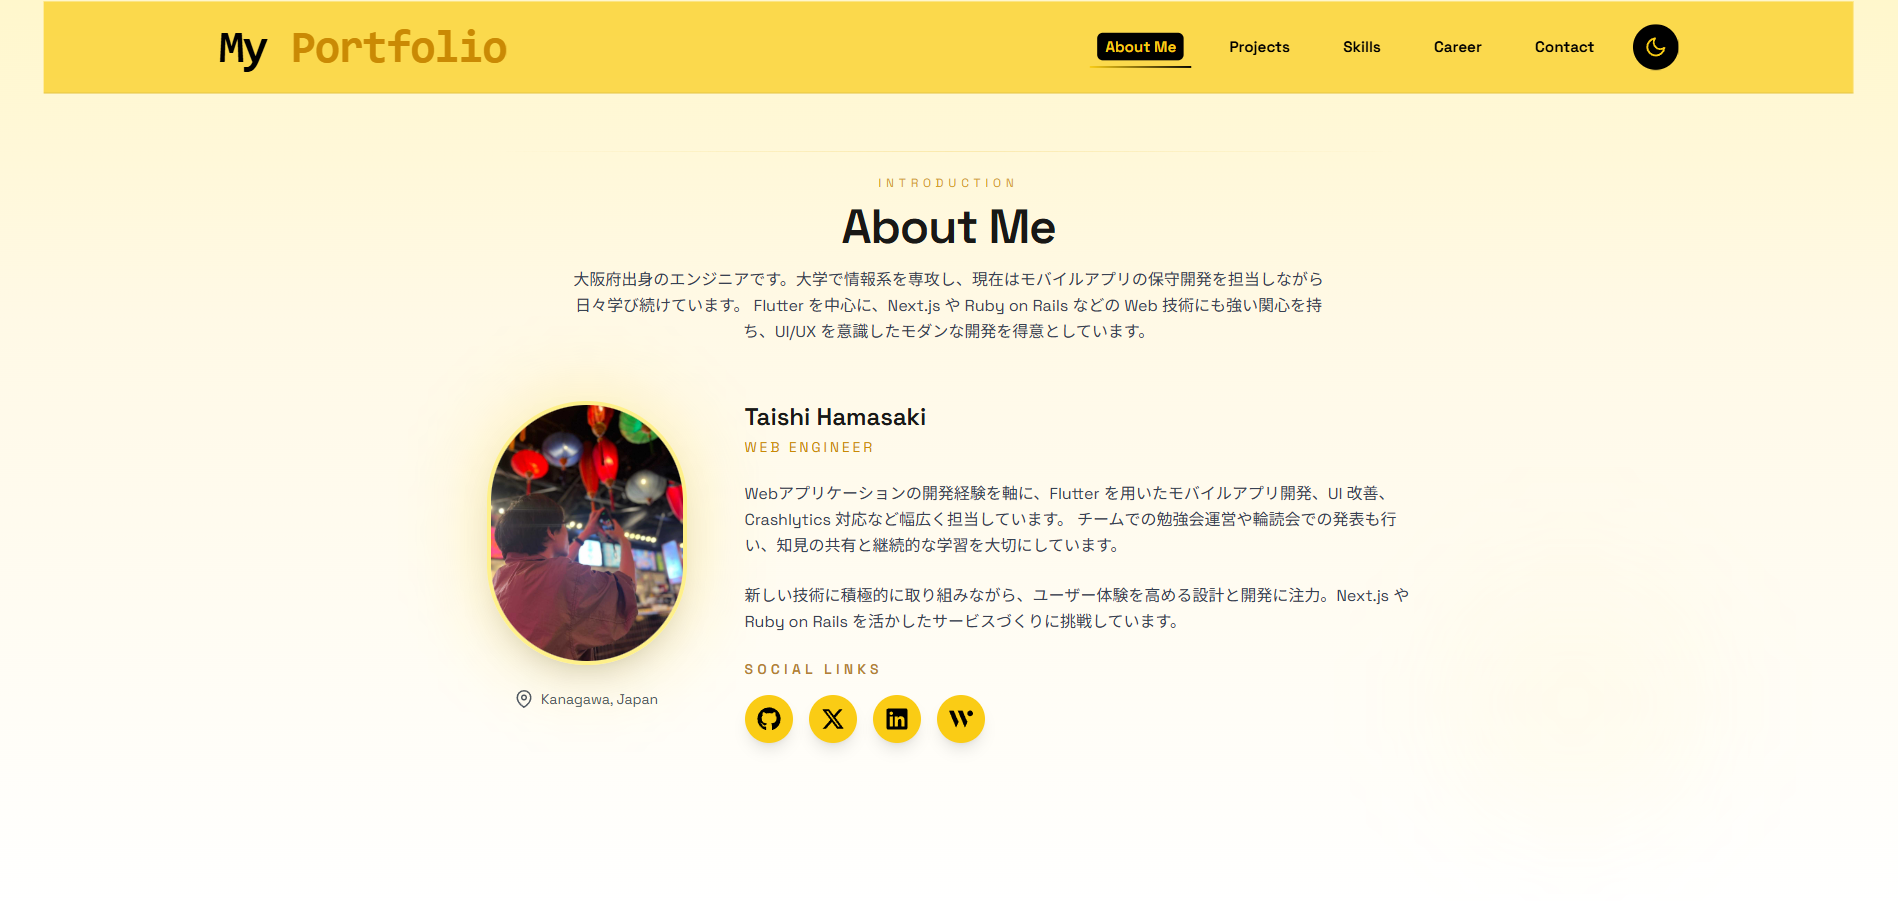
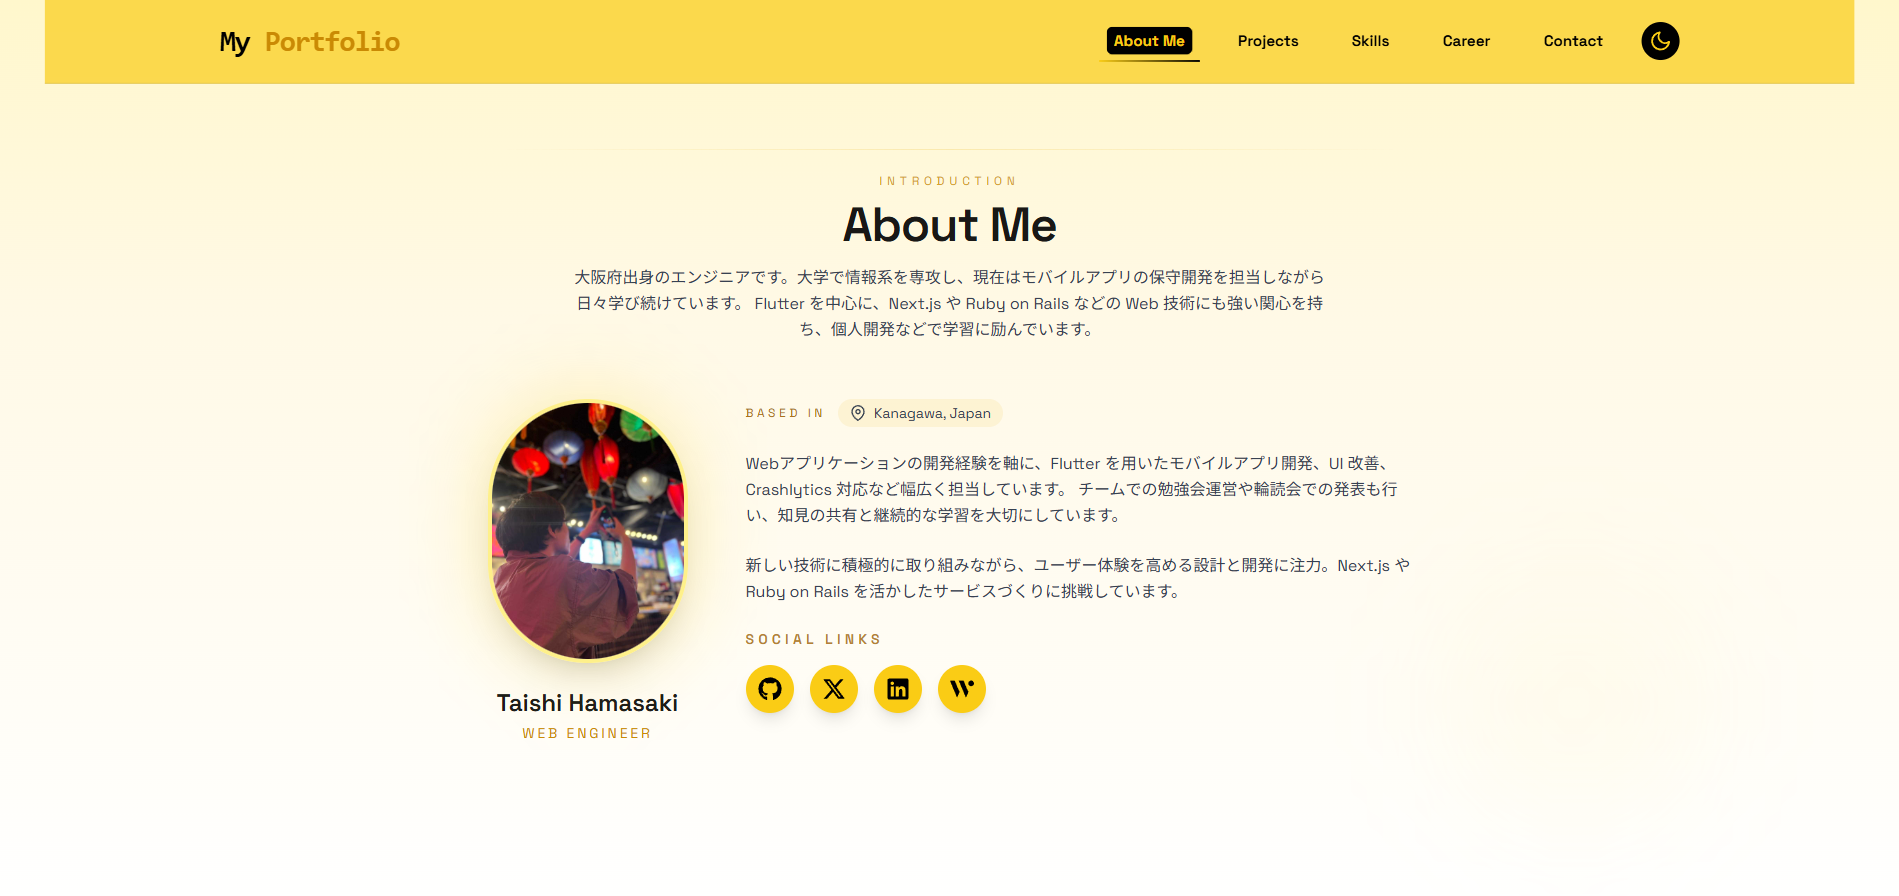
feat: Edit-works-and-aboute-sections

diff --git a/app/components/Projects.tsx b/app/components/Projects.tsx
@@ -1,0 +1,143 @@
+"use client";
+
+import Image from "next/image";
+import Link from "next/link";
+import { PhotoIcon } from "@heroicons/react/24/outline";
+import { useEffect, useRef } from "react";
+import { MdSportsTennis } from "react-icons/md";
+import { GiTennisCourt, GiCctvCamera } from "react-icons/gi";
+import { BsBadgeVr } from "react-icons/bs";
+
+import { projects } from "../data/projects";
+
+type Project = {
+  slug: string;
+  title: string;
+  image: string | null;
+  description: string[];
+  tech: string[];
+};
+
+export default function Projects() {
+  const cardRefs = useRef<(HTMLAnchorElement | null)[]>([]);
+
+  useEffect(() => {
+    const observer = new IntersectionObserver(
+      (entries) => {
+        entries.forEach((entry) => {
+          if (entry.isIntersecting) {
+            entry.target.classList.remove("opacity-0", "translate-y-4");
+            entry.target.classList.add("opacity-100", "translate-y-0");
+          }
+        });
+      },
+      { threshold: 0.1 }
+    );
+
+    const refs = cardRefs.current;
+    refs.forEach((ref) => ref && observer.observe(ref));
+    return () => refs.forEach((ref) => ref && observer.unobserve(ref));
+  }, []);
+
+  const renderProjectVisual = (project: Project): JSX.Element => {
+    if (project.slug === "vr-sports-training") {
+      return (
+        <div className="relative flex h-44 w-full items-center justify-center overflow-hidden rounded-2xl bg-white p-6 shadow-[0_12px_28px_-28px_rgba(0,0,0,0.45)] ring-1 ring-yellow-500/20 transition-transform duration-300 group-hover:scale-[1.01] dark:bg-white">
+          <div className="relative flex items-center justify-center gap-4 text-yellow-700">
+            <span className="grid h-12 w-12 place-items-center rounded-full border border-yellow-400/40 bg-white shadow-sm">
+              <MdSportsTennis className="h-7 w-7" aria-hidden />
+            </span>
+            <span className="grid h-12 w-12 place-items-center rounded-full border border-yellow-400/40 bg-white shadow-sm">
+              <GiTennisCourt className="h-8 w-8" aria-hidden />
+            </span>
+            <span className="grid h-12 w-12 place-items-center rounded-full border border-yellow-400/40 bg-white shadow-sm">
+              <GiCctvCamera className="h-7 w-7" aria-hidden />
+            </span>
+            <span className="grid h-12 w-12 place-items-center rounded-full border border-yellow-400/40 bg-white shadow-sm">
+              <BsBadgeVr className="h-7 w-7" aria-hidden />
+            </span>
+          </div>
+        </div>
+      );
+    }
+
+    if (project.image) {
+      const isSvg = project.image.endsWith(".svg");
+
+      return (
+        <div className="relative flex h-44 w-full items-center justify-center overflow-hidden rounded-2xl bg-white p-6 shadow-[0_12px_28px_-28px_rgba(0,0,0,0.45)] ring-1 ring-yellow-500/20 transition-transform duration-300 group-hover:scale-[1.01] dark:bg-white">
+          <Image
+            src={project.image}
+            alt={`${project.title} のスクリーンショット`}
+            width={isSvg ? 160 : 640}
+            height={isSvg ? 160 : 360}
+            className="h-full w-auto object-contain"
+          />
+        </div>
+      );
+    }
+
+    return (
+      <div className="flex h-44 w-full items-center justify-center rounded-2xl bg-white ring-1 ring-yellow-500/20 dark:bg-white">
+        <PhotoIcon className="h-16 w-16 text-yellow-500" />
+      </div>
+    );
+  };
+
+  return (
+    <section id="projects" className="scroll-mt-28 py-20">
+      <div className="mx-auto max-w-6xl px-6 sm:px-10">
+        <div className="flex flex-col gap-4 sm:flex-row sm:items-end sm:justify-between">
+          <div>
+            <p className="text-xs uppercase tracking-[0.4em] text-yellow-600 dark:text-yellow-300">Works</p>
+            <h2 className="mt-2 text-4xl font-semibold text-black dark:text-yellow-100">
+              Selected Projects
+            </h2>
+          </div>
+          <p className="text-sm text-gray-600 dark:text-gray-300 sm:max-w-sm">
+            個人・チームで取り組んだ制作物の中から、スキルの幅やデザインアプローチが伝わるものをピックアップしています。
+          </p>
+        </div>
+
+        <div className="mt-12 space-y-12">
+          {projects.map((project: Project, index: number) => (
+            <Link
+              key={project.slug}
+              href={`/projects/${project.slug}`}
+              ref={(el: HTMLAnchorElement | null) => {
+                cardRefs.current[index] = el;
+              }}
+              className="group block translate-y-4 border-l-[6px] border-yellow-400/50 pl-6 opacity-0 transition-all duration-500 hover:border-yellow-500 dark:border-yellow-400/40"
+            >
+              <article className="flex flex-col gap-8 md:flex-row md:items-center">
+                <div className="md:w-64 md:flex-shrink-0">
+                  {renderProjectVisual(project)}
+                </div>
+                <div className="flex-1 space-y-4">
+                  <h3 className="text-2xl font-semibold text-black transition-colors duration-200 group-hover:text-yellow-700 dark:text-yellow-100 dark:group-hover:text-yellow-200">
+                    {project.title}
+                  </h3>
+                  {project.description?.[0] && (
+                    <p className="text-sm leading-relaxed text-gray-700 dark:text-gray-300">
+                      {project.description[0]}
+                    </p>
+                  )}
+                  <div className="flex flex-wrap gap-2">
+                    {project.tech.map((t) => (
+                      <span
+                        key={t}
+                        className="rounded-full border border-yellow-500/40 px-3 py-1 text-xs font-semibold text-black transition-colors duration-200 group-hover:border-yellow-500 group-hover:text-yellow-700 dark:border-yellow-500/40 dark:text-yellow-100 dark:group-hover:text-yellow-300"
+                      >
+                        {t}
+                      </span>
+                    ))}
+                  </div>
+                </div>
+              </article>
+            </Link>
+          ))}
+        </div>
+      </div>
+    </section>
+  );
+}

diff --git a/app/projects/[slug]/page.tsx b/app/projects/[slug]/page.tsx
@@ -1,7 +1,9 @@
 import Image from "next/image";
 import Link from "next/link";
 import { notFound } from "next/navigation";
-
+import { MdSportsTennis } from "react-icons/md";
+import { GiTennisCourt, GiCctvCamera } from "react-icons/gi";
+import { BsBadgeVr } from "react-icons/bs";
 import Header from "../../components/Header";
 import { projects } from "../../data/projects";
 
@@ -45,7 +47,48 @@ export default function ProjectPage({ params }: ProjectPageProps) {
   const imageClassName = isSvgImage
     ? "relative z-10 h-64 w-auto"
     : "relative z-10 w-full rounded-2xl object-cover shadow-2xl shadow-black/50";
+  const renderProjectVisual = () => {
+    if (project.slug === "vr-sports-training") {
+      return (
+        <div className="relative overflow-hidden rounded-[2.5rem] border border-yellow-500/30 bg-white p-10 shadow-[0_45px_90px_-45px_rgba(253,224,71,0.45)] transition-colors dark:bg-white">
+          <div className="relative mx-auto flex h-full max-h-[420px] w-full items-center justify-center">
+            <div className="flex flex-wrap items-center justify-center gap-6 text-yellow-700">
+              <span className="grid h-20 w-20 place-items-center rounded-full border border-yellow-400/40 bg-white shadow-sm">
+                <MdSportsTennis className="h-11 w-11" aria-hidden />
+              </span>
+              <span className="grid h-24 w-24 place-items-center rounded-full border border-yellow-400/40 bg-white shadow-sm">
+                <GiTennisCourt className="h-12 w-12" aria-hidden />
+              </span>
+              <span className="grid h-20 w-20 place-items-center rounded-full border border-yellow-400/40 bg-white shadow-sm">
+                <GiCctvCamera className="h-11 w-11" aria-hidden />
+              </span>
+              <span className="grid h-20 w-20 place-items-center rounded-full border border-yellow-400/40 bg-white shadow-sm">
+                <BsBadgeVr className="h-11 w-11" aria-hidden />
+              </span>
+            </div>
+          </div>
+        </div>
+      );
+    }
 
+    if (!project.image) {
+      return null;
+    }
+
+    return (
+      <div className="relative overflow-hidden rounded-[2.5rem] border border-yellow-500/30 bg-white p-6 shadow-[0_45px_90px_-45px_rgba(253,224,71,0.45)] transition-colors dark:bg-white">
+        <div className="relative mx-auto flex h-full max-h-[480px] items-center justify-center">
+          <Image
+            src={project.image}
+            alt={`${project.title} のスクリーンショット`}
+            width={imageWidth}
+            height={imageHeight}
+            className={imageClassName}
+          />
+        </div>
+      </div>
+    );
+  };
   return (
     <div className="relative min-h-screen overflow-hidden bg-gradient-to-br from-[#fef9c3] via-white to-[#fefce8] text-gray-900 transition-colors duration-500 dark:from-black dark:via-[#0f0f0f] dark:to-[#050505] dark:text-white">
       <Header />
@@ -115,20 +158,7 @@ export default function ProjectPage({ params }: ProjectPageProps) {
             </div>
           </div>
 
-          {project.image && (
-            <div className="relative overflow-hidden rounded-[2.5rem] border border-yellow-500/30 bg-white/75 p-6 shadow-[0_45px_90px_-45px_rgba(253,224,71,0.45)] backdrop-blur-xl transition-colors dark:border-yellow-500/20 dark:bg-black/60 dark:shadow-[0_45px_90px_-45px_rgba(253,224,71,0.65)]">
-              <div className="pointer-events-none absolute inset-0 bg-[radial-gradient(circle_at_top_right,_rgba(250,204,21,0.25),_transparent_60%)] opacity-80 dark:opacity-100" />
-              <div className="relative mx-auto flex h-full max-h-[480px] items-center justify-center">
-                <Image
-                  src={project.image}
-                  alt={`${project.title} のスクリーンショット`}
-                  width={imageWidth}
-                  height={imageHeight}
-                  className={imageClassName}
-                />
-              </div>
-            </div>
-          )}
+          {renderProjectVisual()}
         </section>
 
         <section className="grid gap-8 rounded-[2.5rem] border border-yellow-500/30 bg-white/70 p-10 shadow-[0_45px_90px_-55px_rgba(253,224,71,0.4)] backdrop-blur-2xl transition-colors dark:border-yellow-500/20 dark:bg-black/50 dark:shadow-[0_45px_90px_-55px_rgba(253,224,71,0.5)] lg:grid-cols-2">

diff --git a/app/components/About.tsx b/app/components/About.tsx
@@ -20,12 +20,12 @@ export default function About(): JSX.Element {
           </h2>
           <p className="mx-auto mt-4 max-w-3xl text-base leading-relaxed text-gray-700 dark:text-gray-300">
             大阪府出身のエンジニアです。大学で情報系を専攻し、現在はモバイルアプリの保守開発を担当しながら日々学び続けています。
-            Flutter を中心に、Next.js や Ruby on Rails などの Web 技術にも強い関心を持ち、UI/UX を意識したモダンな開発を得意としています。
+            Flutter を中心に、Next.js や Ruby on Rails などの Web 技術にも強い関心を持ち、個人開発などで学習に励んでいます。
           </p>
         </header>
 
         <div className="mt-14 grid gap-12 md:grid-cols-[minmax(0,220px)_1fr] md:items-start">
-          <div className="flex flex-col items-center gap-6">
+          <div className="flex flex-col items-center gap-6 text-center">
             <div className="relative">
               <div className="absolute inset-0 rounded-full bg-yellow-400/30 blur-2xl" aria-hidden />
               <Image
@@ -37,18 +37,19 @@ export default function About(): JSX.Element {
                 priority
               />
             </div>
-            <div className="text-center text-sm font-medium text-gray-600 dark:text-yellow-300">
-              <div className="flex items-center justify-center gap-2">
-                <FiMapPin className="text-lg" />
-                <span>Kanagawa, Japan</span>
-              </div>
+            <div className="space-y-1">
+              <h3 className="text-2xl font-semibold text-black/90 dark:text-yellow-100">Taishi Hamasaki</h3>
+              <p className="text-sm uppercase tracking-[0.2em] text-yellow-600 dark:text-yellow-300">Web Engineer</p>
             </div>
           </div>
 
           <div className="space-y-6 text-left">
-            <div>
-              <h3 className="text-2xl font-semibold text-black/90 dark:text-yellow-100">Taishi Hamasaki</h3>
-              <p className="mt-1 text-sm uppercase tracking-[0.2em] text-yellow-600 dark:text-yellow-300">Web Engineer</p>
+            <div className="flex flex-wrap items-center gap-3 text-sm font-medium text-gray-600 dark:text-yellow-300">
+              <span className="text-xs uppercase tracking-[0.3em] text-yellow-700/90 dark:text-yellow-400">Based in</span>
+              <span className="flex items-center gap-2 rounded-full bg-yellow-500/10 px-3 py-1 text-gray-700 dark:bg-yellow-500/20 dark:text-yellow-200">
+                <FiMapPin className="text-base" />
+                <span>Kanagawa, Japan</span>
+              </span>
             </div>
             <p className="text-base leading-relaxed text-gray-700 dark:text-gray-200">
               Webアプリケーションの開発経験を軸に、Flutter を用いたモバイルアプリ開発、UI 改善、Crashlytics 対応など幅広く担当しています。

diff --git a/app/data/projects.js b/app/data/projects.js
@@ -32,7 +32,7 @@ export const projects = [
     {
         slug: "vr-sports-training",
         title: "卒業研究",
-        image: "/mocap-camera-icon.svg",
+        image: null,
         description: [
             "「モーションキャプチャーとVRを用いたスポーツトレーニング支援システムの研究」",
             "VR空間内にテニスコートを構築し、被験者が実際にラケットを持って飛んでくるボールを打つことで実践的なトレーニングを再現。",
